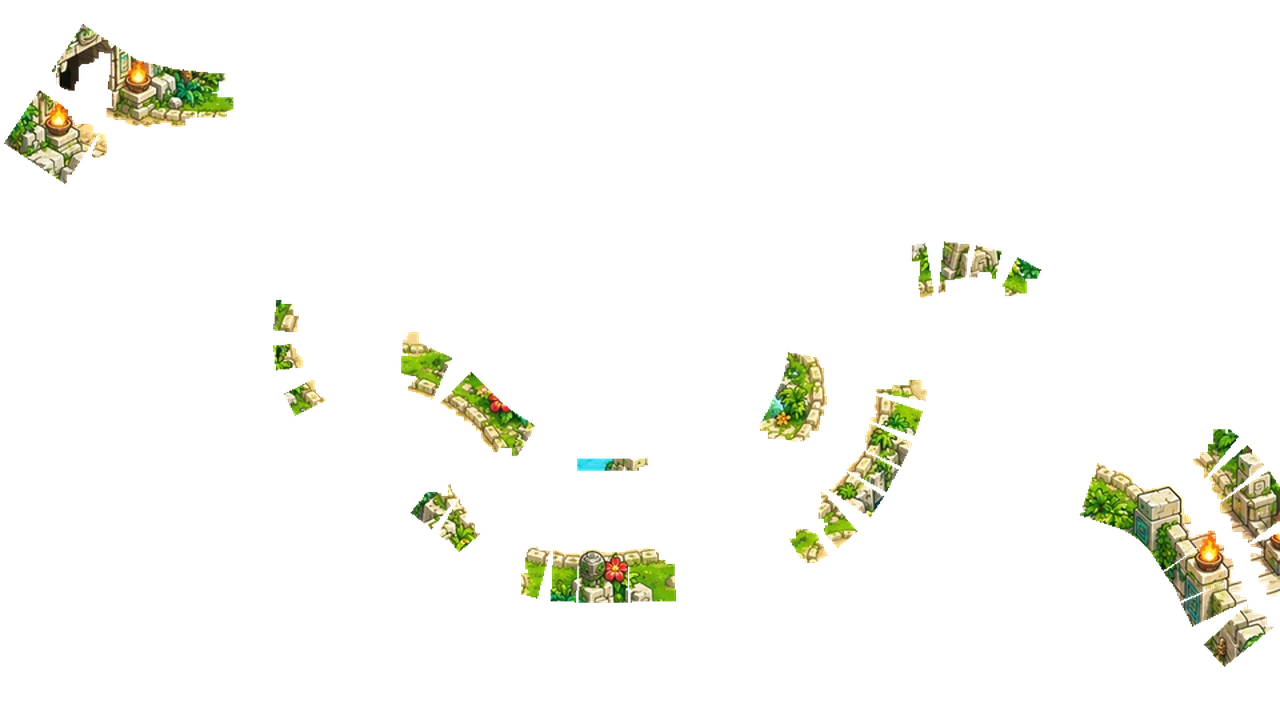
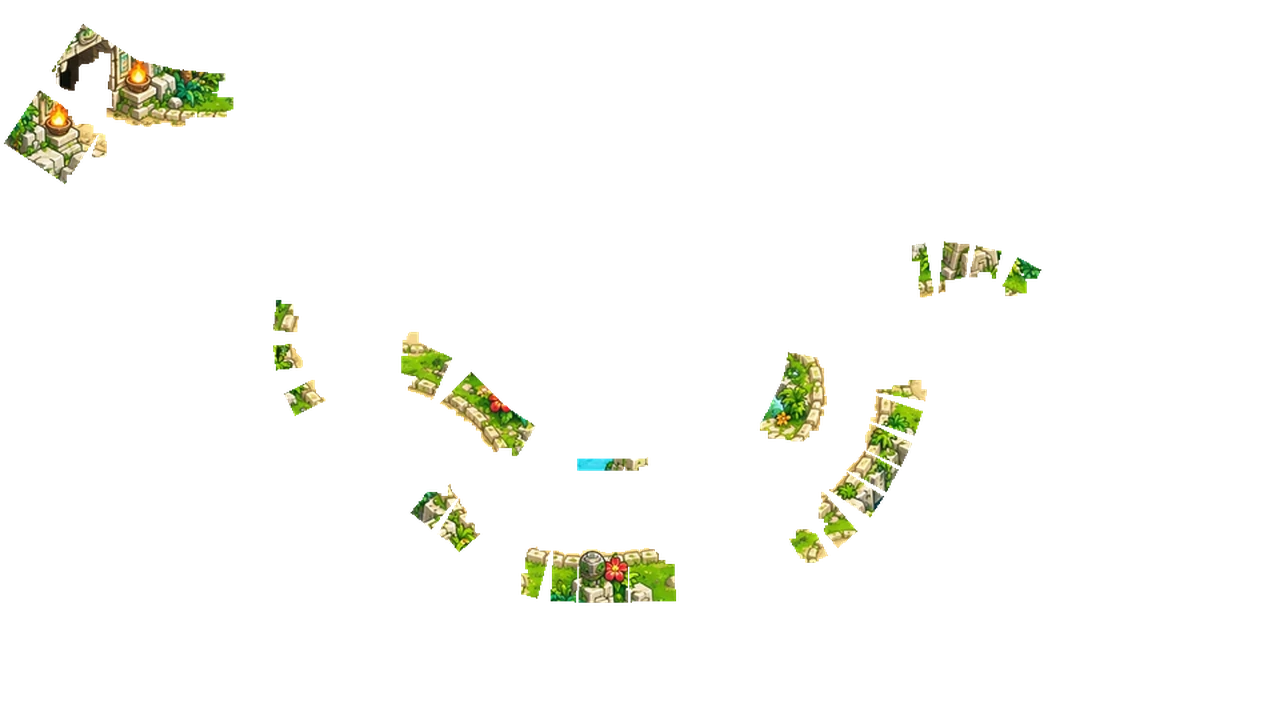
fix(td): the temple's south-east corner stays one picture
A wall, a rope bridge, a stair and a gate all leaning past one another do not
come apart into pieces that each stand somewhere. Sorted, they gave seams
instead of depth.

A map can now name the parts of itself that are to be left whole, and the
temple names that corner. Nothing is cut there and nothing is laid over it —
the road is walked across a picture, as it was before any of this. The exit
gate still hides whoever walks out through it: that comes from the hand-fitted
gate overlay, which predates the cutting and is untouched by it.

The temple keeps 47 pieces elsewhere, where the depth is real and reads.

Changed region(s): [[0.8438, 0.5806, 1.0, 0.9167]]

diff --git a/src/components/td/maps.ts b/src/components/td/maps.ts
@@ -85,31 +85,19 @@ export const MAPS: Record<string, MapDef> = {
       { x: 457, y: 344, w: 24, h: 9, base: 352 },
       { x: 670, y: 301, w: 22, h: 58, base: 358 },
       { x: 622, y: 342, w: 24, h: 41, base: 382 },
-      { x: 895, y: 322, w: 24, h: 63, base: 384 },
       { x: 646, y: 297, w: 24, h: 91, base: 387 },
-      { x: 810, y: 347, w: 24, h: 47, base: 393 },
       { x: 638, y: 393, w: 5, h: 9, base: 401 },
       { x: 308, y: 369, w: 24, h: 34, base: 402 },
       { x: 356, y: 399, w: 4, h: 5, base: 403 },
-      { x: 834, y: 353, w: 24, h: 55, base: 407 },
       { x: 614, y: 369, w: 24, h: 42, base: 410 },
       { x: 332, y: 363, w: 24, h: 51, base: 413 },
       { x: 616, y: 408, w: 5, h: 11, base: 418 },
-      { x: 919, y: 322, w: 24, h: 99, base: 420 },
       { x: 592, y: 397, w: 24, h: 25, base: 421 },
-      { x: 858, y: 364, w: 24, h: 78, base: 441 },
-      { x: 943, y: 343, w: 17, h: 104, base: 446 },
       { x: 391, y: 410, w: 22, h: 39, base: 448 },
       { x: 485, y: 411, w: 22, h: 40, base: 450 },
       { x: 413, y: 413, w: 24, h: 39, base: 451 },
       { x: 437, y: 412, w: 24, h: 40, base: 451 },
       { x: 461, y: 411, w: 24, h: 41, base: 451 },
-      { x: 930, y: 436, w: 5, h: 17, base: 452 },
-      { x: 906, y: 398, w: 24, h: 66, base: 463 },
-      { x: 882, y: 369, w: 24, h: 101, base: 469 },
-      { x: 951, y: 470, w: 4, h: 3, base: 472 },
-      { x: 927, y: 453, w: 24, h: 40, base: 492 },
-      { x: 903, y: 462, w: 24, h: 38, base: 499 },
     ],
     road: [
       { x: -35, y: 18 }, { x: 47, y: 72 }, { x: 62, y: 82 }, { x: 77, y: 92 },

diff --git a/scripts/td_props.py b/scripts/td_props.py
@@ -171,6 +171,13 @@ def cut(mid, data):
     # must never take, because there it would be a wall across the way
     chosen = fa._dilate(chosen, SLOP) & ~road & reach
 
+    # and wherever the map is asked to stay one picture, it stays one picture.
+    # Some corners read better whole than sorted: a wall, a bridge and a
+    # stair, all leaning past each other, will not come apart into pieces that
+    # each stand somewhere, and trying leaves seams instead of depth
+    for x0, y0, x1, y1 in m.get("whole") or []:
+        chosen[max(0, int(y0)):int(y1), max(0, int(x0)):int(x1)] = False
+
     pieces = []
     for keep in parts(chosen):
         layer[keep, :3] = a[keep]
